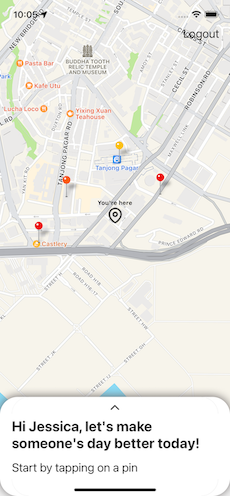
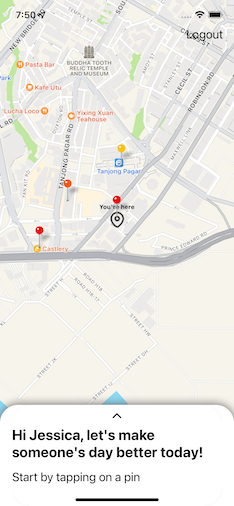
adjust radius

diff --git a/app/components/AdminModal.js b/app/components/AdminModal.js
@@ -73,7 +73,8 @@ export default function AdminModal({
 const styles = StyleSheet.create({
   container: {
     backgroundColor: 'white',
-    borderRadius: 30,
+    borderTopRightRadius: 30,
+    borderTopLeftRadius: 30,
     paddingHorizontal: 20,
     shadowColor: colors.medium,
     shadowOffset: { width: 0, height: -1 },
